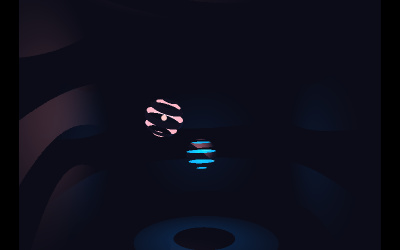
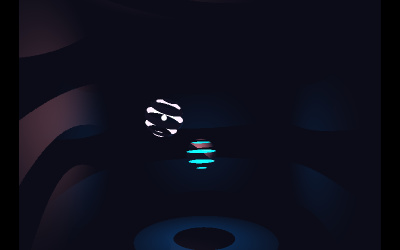
Examples: Clean up. (#24942)

diff --git a/examples/webgl_materials_normalmap.html b/examples/webgl_materials_normalmap.html
@@ -79,7 +79,7 @@
 				ambientLight = new THREE.AmbientLight( 0x444444 );
 				scene.add( ambientLight );
 
-				pointLight = new THREE.PointLight( 0xffffff, 1.25, 1000 );
+				pointLight = new THREE.PointLight( 0xffffff, 2, 1000 );
 				pointLight.position.set( 0, 0, 600 );
 
 				scene.add( pointLight );

diff --git a/examples/webgl_shadowmap_pointlight.html b/examples/webgl_shadowmap_pointlight.html
@@ -50,7 +50,7 @@
 
 				function createLight( color ) {
 
-					const intensity = 1.5;
+					const intensity = 2;
 
 					const light = new THREE.PointLight( color, intensity, 20 );
 					light.castShadow = true;
